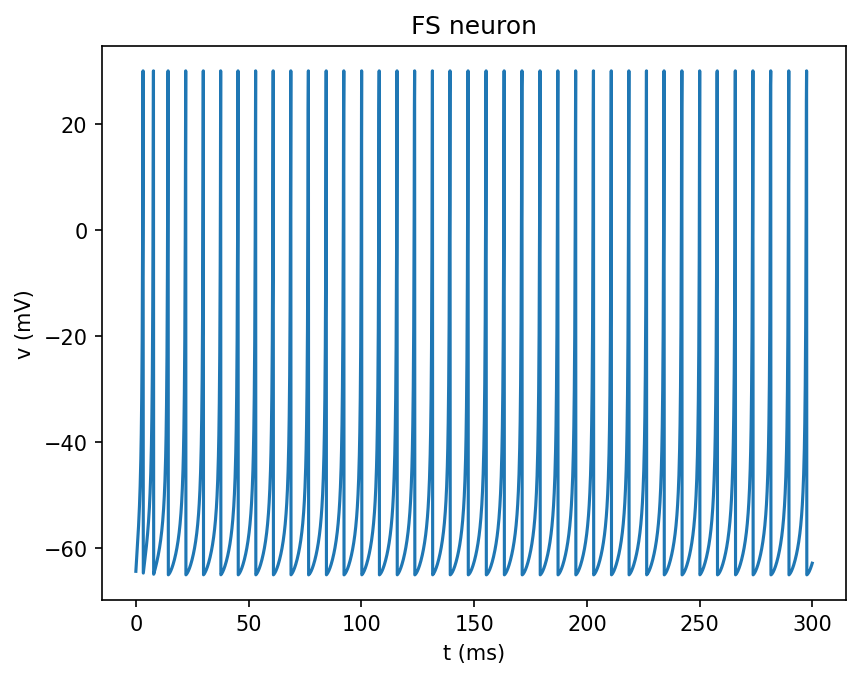
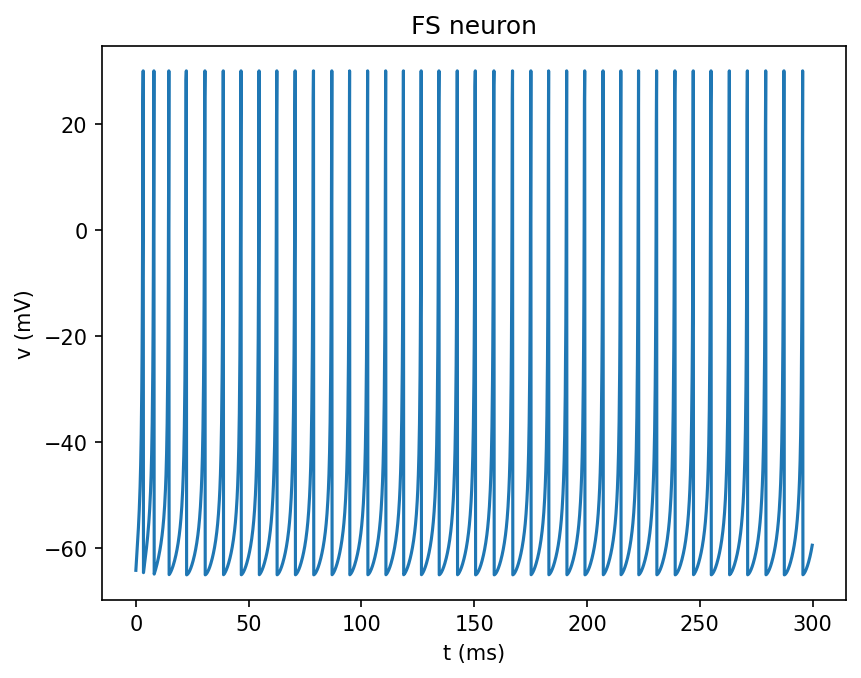
update fs neuron fixed edition

diff --git a/fs_fixed.py b/fs_fixed.py
@@ -1,0 +1,84 @@
+"""
+FS neuron - Q10 fixed-point reference implementation.
+
+Mirrors the intended Verilog datapath exactly:
+  - every value is a plain integer
+  - every multiply is followed by an explicit >> to restore the Q scale
+  - Python's >> on negative ints is an arithmetic shift (floor), the same
+    behaviour as Verilog's >>> on a signed operand
+
+Verified against the float model (dt=0.125): 126.53 Hz vs 126.55 Hz.
+"""
+
+F = 10
+SCALE = 1 << F                      # 1024
+
+
+def q(x, bits=F):
+    return int(round(x * (1 << bits)))
+
+
+# ---- constants -----------------------------------------------------------
+# 0.04 needs extra precision: at Q10 it becomes 41 = 0.04004 (+0.098%),
+# which shows up as a +1.5% error in firing rate.  At Q18 the error vanishes.
+QUAD_BITS = 18
+C_QUAD  = q(0.04, QUAD_BITS)        # 10486
+C_B     = q(0.2)                    # 205    (Q10 is plenty here)
+C_140   = q(140)                    # 143360
+C_RESET = q(-65.0)                  # -66560   (c)
+C_D     = q(2.0)                    # 2048     (d)
+V_TH    = q(30.0)                   # 30720
+
+DT = 0.125                          # ms; 0.5*dt = 1/16 -> a pure shift
+HALF_DT_SHIFT = 4
+
+UA_BITS = 10
+C_UA = q(0.0125, UA_BITS)           # 13     dt*a = 0.125 * 0.1
+
+
+def simulate_fixed(I=10.0, T=300.0):
+    V = C_RESET                                 # Q10
+    U = (C_B * V) >> F                          # Q10,  u = b*v
+    I_FX = q(I)
+
+    spikes, trace, max_prod = [], [], 0
+
+    for k in range(int(T / DT)):
+        for _ in range(2):                      # two half steps
+            v_sq   = V * V                      # Q20
+            max_prod = max(max_prod, abs(v_sq))
+            v_sq10 = v_sq >> F                  # Q10   v^2
+            quad   = (C_QUAD * v_sq10) >> QUAD_BITS      # Q10   0.04 v^2
+            five_v = (V << 2) + V               # Q10   5v, exact
+            f      = quad + five_v + C_140 - U + I_FX    # Q10
+            V      = V + (f >> HALF_DT_SHIFT)
+
+        bv = (C_B * V) >> F                     # Q10   b*v
+        U  = U + ((C_UA * (bv - U)) >> UA_BITS)
+
+        fired = V >= V_TH
+        trace.append((k * DT, V_TH if fired else V))
+        if fired:
+            spikes.append(k * DT)
+            V = C_RESET
+            U = U + C_D
+
+    return spikes, trace, max_prod
+
+
+def isi_stats(spikes, skip=3):
+    s = spikes[skip:]
+    isi = [s[i + 1] - s[i] for i in range(len(s) - 1)]
+    mean = sum(isi) / len(isi)
+    return mean, 1000.0 / mean
+
+
+if __name__ == "__main__":
+    spikes, trace, max_prod = simulate_fixed(I=10.0, T=300.0)
+    mean, hz = isi_stats(spikes)
+    print(f"spikes      : {len(spikes)}")
+    print(f"steady ISI  : {mean:.3f} ms  ->  {hz:.2f} Hz")
+    print(f"float ref   : 7.902 ms  ->  126.55 Hz")
+    print(f"max |v*v|   : {max_prod}  -> {max_prod.bit_length()+1} bits signed")
+    print(f"constants   : 0.04->{C_QUAD} (Q{QUAD_BITS})  0.2->{C_B} (Q{F})  "
+          f"dt*a->{C_UA} (Q{UA_BITS})")

diff --git a/fs_neuron.py b/fs_neuron.py
@@ -1,7 +1,7 @@
 import matplotlib.pyplot as plt
 import numpy as np
 
-def simulate_fs(I=10.0, T=300.0, dt=0.1):
+def simulate_fs(I=10.0, T=300.0, dt=0.125):
     a, b, c, d = 0.1, 0.2, -65.0, 2.0
     v = -65.0
     u = b * v
